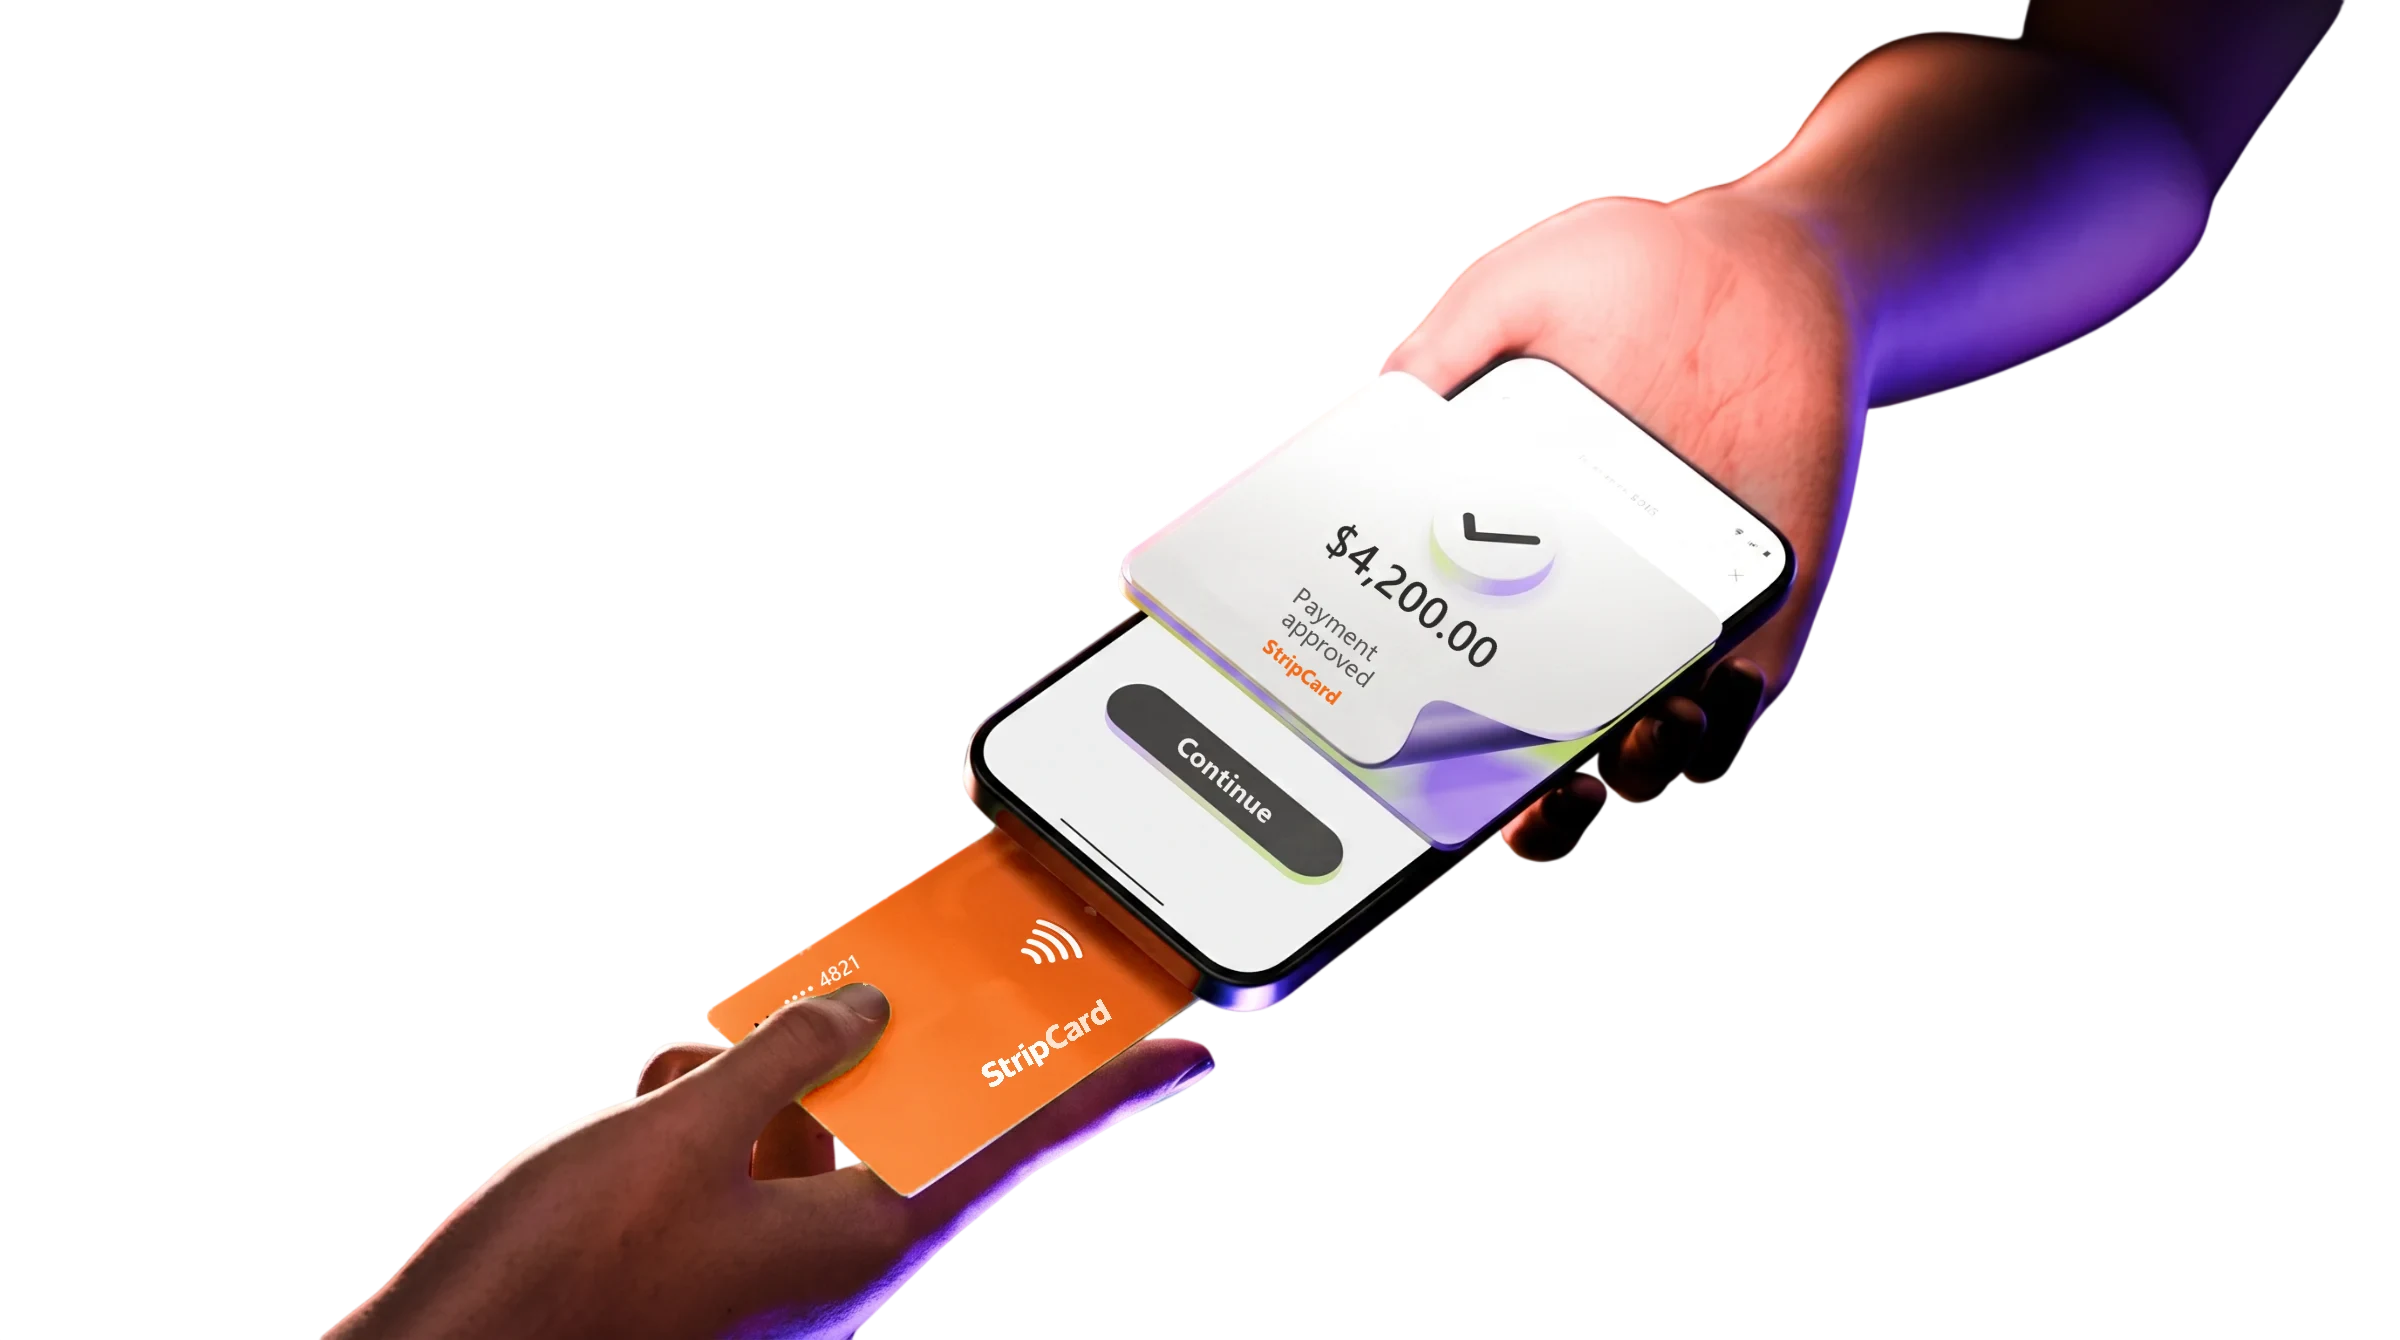
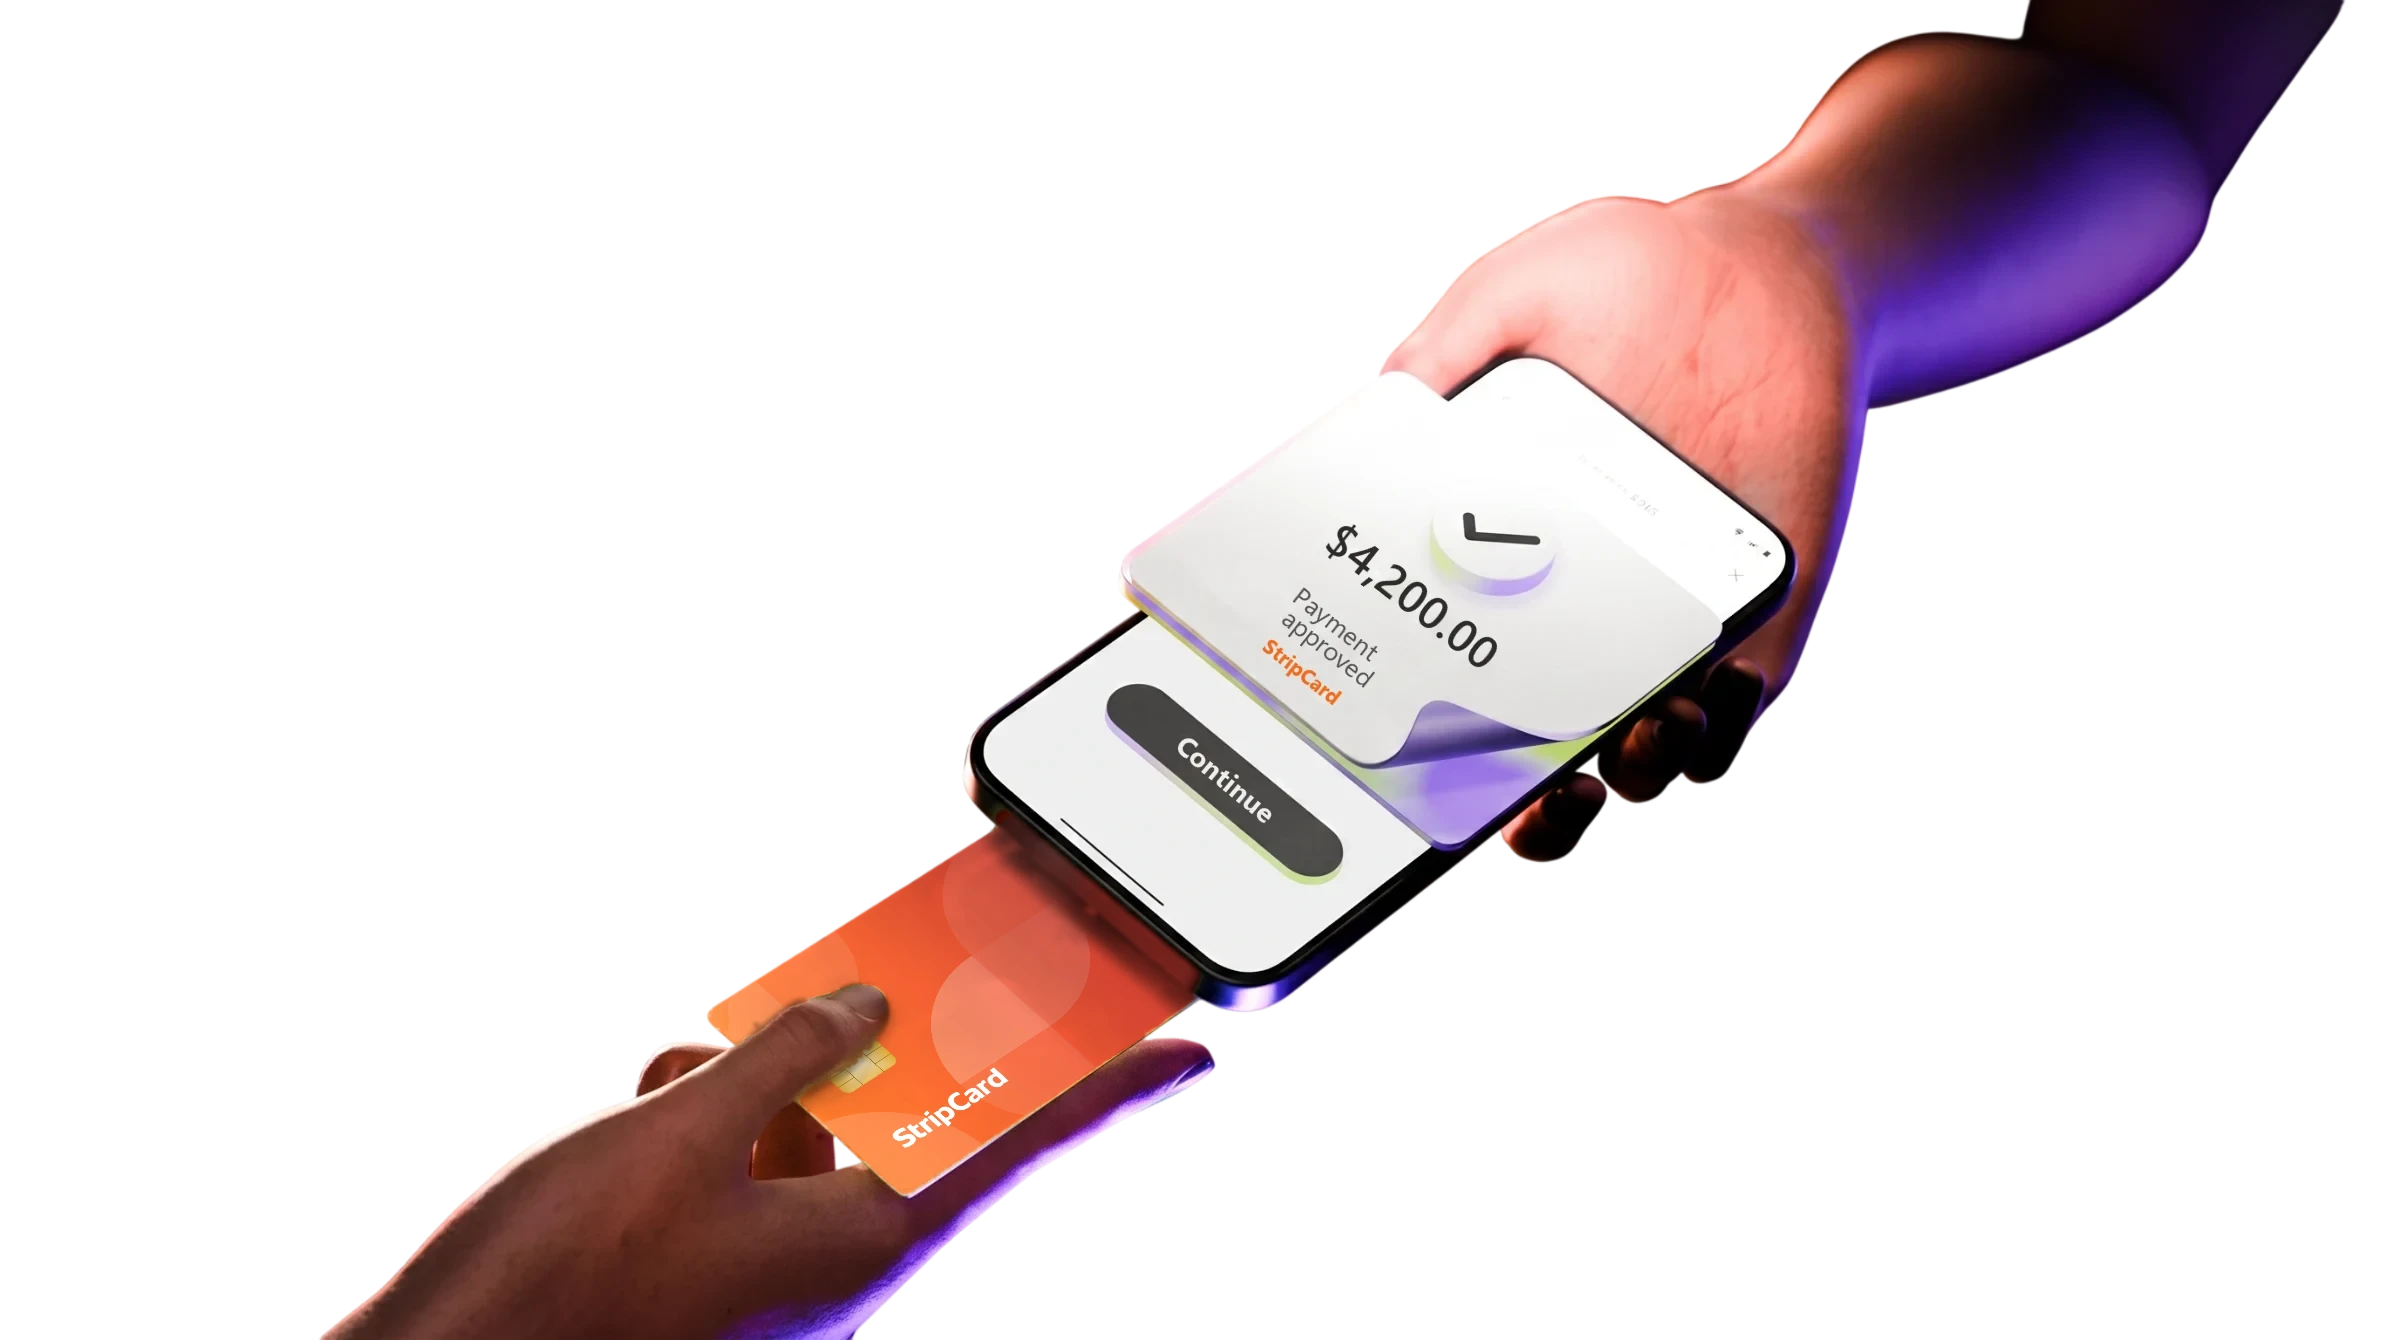
Update hero section and testimonial

Changed region(s): [[0.3438, 0.6119, 0.5, 0.8567], [0.2812, 0.7343, 0.3438, 0.7649]]

diff --git a/src/components/home/Banner.jsx b/src/components/home/Banner.jsx
@@ -1,9 +1,82 @@
 import Image from "next/image";
-import { Button } from "@/components/ui/Button";
+import { siApplepay, siGooglepay, siPaypal, siStripe, siVisa } from "simple-icons";
 import { TrustBadge } from "@/components/shared/TrustBadge";
 import { Container } from "@/components/ui/Container";
 import { Eyebrow } from "@/components/ui/Eyebrow";
 import { banner } from "@/data/banner";
+
+/**
+ * A wedge of a circle, as polygon points: from `from` to `to` degrees (SVG
+ * angles, clockwise from three o'clock), out to radius `r` around `cx, cy`.
+ */
+function wedge(cx, cy, r, from, to) {
+  const at = (deg) => {
+    const a = (deg * Math.PI) / 180;
+    return `${(cx + r * Math.cos(a)).toFixed(2)},${(cy + r * Math.sin(a)).toFixed(2)}`;
+  };
+  return `${cx},${cy} ${at(from)} ${at((from + to) / 2)} ${at(to)}`;
+}
+
+/**
+ * Google Pay's "G" in its four colours. simple-icons draws "G Pay" as one
+ * shape, the G a ring of radius 3.963 round (3.963, 11.198) with the word to
+ * its right; the coloured wedges are clipped to that shape and kept left of
+ * the "P", so only the G takes them.
+ */
+const G = { cx: 3.963, cy: 11.198, r: 9 };
+const G_COLOURS = [
+  ["#ea4335", 190, 320],
+  ["#fbbc04", 140, 190],
+  ["#34a853", 35, 140],
+  ["#4285f4", -40, 35],
+];
+
+/**
+ * The partner logos in their own colours, by the name the data uses: each
+ * simple-icons path with a viewBox cropped to its own outline (the icons sit
+ * in a 24-unit square, which would leave a wordmark tiny and a square mark
+ * huge). Mastercard is drawn as its circles, red and yellow overlapping in
+ * orange, and Google Pay's G in its four colours.
+ */
+const PARTNER_ICONS = {
+  siStripe: { box: "3.43 0 17.13 24", art: <path d={siStripe.path} fill="#635bff" /> },
+  siVisa: { box: "0 8.12 24 7.75", art: <path d={siVisa.path} fill="#1a1f71" /> },
+  siMastercard: {
+    box: "0 0 38 24",
+    art: (
+      <>
+        <circle cx="12" cy="12" r="12" fill="#eb001b" />
+        <circle cx="26" cy="12" r="12" fill="#f79e1b" />
+        <path d="M19 2.253A12 12 0 0 1 19 21.747A12 12 0 0 1 19 2.253Z" fill="#ff5f00" />
+      </>
+    ),
+  },
+  siApplepay: { box: "0 4.32 24 15.37", art: <path d={siApplepay.path} fill="#000" /> },
+  siGooglepay: {
+    box: "0 7.23 24 9.53",
+    art: (
+      <>
+        <defs>
+          <clipPath id="partner-gpay-shape">
+            <path d={siGooglepay.path} />
+          </clipPath>
+          <clipPath id="partner-gpay-g">
+            <rect x="0" y="0" width="8.3" height="24" />
+          </clipPath>
+        </defs>
+        <path d={siGooglepay.path} fill="#5f6368" />
+        <g clipPath="url(#partner-gpay-shape)">
+          <g clipPath="url(#partner-gpay-g)">
+            {G_COLOURS.map(([fill, from, to]) => (
+              <polygon key={fill} points={wedge(G.cx, G.cy, G.r, from, to)} fill={fill} />
+            ))}
+          </g>
+        </g>
+      </>
+    ),
+  },
+  siPaypal: { box: "1.82 0 20.36 24", art: <path d={siPaypal.path} fill="#003087" /> },
+};
 
 /**
  * Homepage banner.
@@ -18,7 +91,7 @@ import { banner } from "@/data/banner";
  * card, so the content pads itself clear of `--header-h` from the inside.
  */
 export function Banner() {
-  const { eyebrow, headline, description, cta, image, trust } = banner;
+  const { eyebrow, headline, description, partners, image, trust } = banner;
 
   return (
     <section className="bg-brand-50 p-2 sm:p-3 lg:p-4 dark:bg-page">
@@ -73,14 +146,27 @@ export function Banner() {
               {description}
             </p>
 
-            <Button
-              href={cta.href}
-              variant="outline"
-              arrow={false}
-              className="mt-6 [--btn-h:2.875rem] [--btn-pad:1.375rem] lg:mt-7"
-            >
-              {cta.label}
-            </Button>
+            {/* The payment partners, each logo in its own colours on a small
+                white badge, so even the dark ones (Visa, Apple Pay) read on
+                the banner's dark ground. */}
+            <div className="mt-6 lg:mt-7">
+              <p className="text-xs font-medium tracking-[0.02em] text-white/60">{partners.label}</p>
+              <ul className="mt-3.5 flex flex-wrap items-center gap-1.5 sm:gap-2">
+                {partners.items.map((partner) => {
+                  const icon = PARTNER_ICONS[partner.icon];
+                  return (
+                    <li
+                      key={partner.name}
+                      className="grid h-8 place-items-center rounded-lg bg-white px-2 shadow-[0_6px_16px_-8px_rgb(0_0_0/0.5)] ring-1 ring-black/5 transition-transform duration-300 hover:-translate-y-0.5 sm:h-9 sm:px-3"
+                    >
+                      <svg role="img" aria-label={partner.name} viewBox={icon.box} className="h-(--h) w-auto max-sm:h-[calc(var(--h)*0.85)]" style={{ "--h": `${partner.h}px` }}>
+                        {icon.art}
+                      </svg>
+                    </li>
+                  );
+                })}
+              </ul>
+            </div>
           </div>
         </Container>
       </div>

diff --git a/src/data/banner.js b/src/data/banner.js
@@ -12,12 +12,30 @@ export const banner = {
   description:
     "With StripCard, create virtual credit cards in seconds. Set spending limits, track every payment in real time, and pay securely online, anywhere in the world.",
 
-  cta: { label: "Explore Products", href: "/products" },
+  /**
+   * The payment partners, as a row of logo badges under the pitch. `icon` names a
+   * simple-icons export (see Banner); `h` is the logo's height in pixels,
+   * set per logo so square marks and long wordmarks carry the same weight.
+   */
+  partners: {
+    label: "Works with the payment partners you trust",
+    items: [
+      { name: "Stripe", icon: "siStripe", h: 18 },
+      { name: "Visa", icon: "siVisa", h: 12 },
+      { name: "Mastercard", icon: "siMastercard", h: 18 },
+      { name: "Apple Pay", icon: "siApplepay", h: 21 },
+      { name: "Google Pay", icon: "siGooglepay", h: 14 },
+      { name: "PayPal", icon: "siPaypal", h: 18 },
+    ],
+  },
 
   /**
    * `hero_img1.webp`, rebranded: the receipt on the phone reads "$4,200.00,
-   * Payment approved, StripCard", the button "Continue", and the card is an
-   * orange StripCard with its own number. The original stays beside it.
+   * Payment approved, StripCard", the button "Continue", and the card is the
+   * orange StripCard with its name along the bottom
+   * (public/images/assets/cards/card-orange-naming-reverse.webp), set into
+   * the photo under the thumb so the name reads clear of it. The original
+   * stays beside it.
    */
   image: {
     src: "/images/assets/banner/hero-stripcard.webp",

diff --git a/src/data/testimonials.js b/src/data/testimonials.js
@@ -1,6 +1,9 @@
+import aishaAvatar from "../../public/images/testimonials/customer-aisha-avatar.webp";
 import aisha from "../../public/images/testimonials/customer-aisha.webp";
+import danielAvatar from "../../public/images/testimonials/customer-daniel-avatar.webp";
 import daniel from "../../public/images/testimonials/customer-daniel.webp";
 import marcus from "../../public/images/testimonials/customer-marcus.webp";
+import mayaAvatar from "../../public/images/testimonials/customer-maya-avatar.webp";
 import maya from "../../public/images/testimonials/customer-maya.webp";
 import sofia from "../../public/images/testimonials/customer-sofia.webp";
 
@@ -22,7 +25,8 @@ export const testimonialsHeading = {
 /**
  * The orange card pinned at the start of the rail. PLACEHOLDER figures:
  * replace `score` and `users` with real, current numbers (and say where the
- * rating comes from) before launch. `avatars` are a few of the faces below.
+ * rating comes from) before launch. `avatars` are a few of the faces below,
+ * as square headshots made from their photos.
  */
 export const testimonialsRating = {
   score: "4.9",
@@ -30,7 +34,7 @@ export const testimonialsRating = {
   note: "Average from customers paying with StripCard every day.",
   users: "15k+",
   usersLabel: "Trusted users",
-  avatars: [maya, daniel, aisha],
+  avatars: [mayaAvatar, danielAvatar, aishaAvatar],
 };
 
 /**

diff --git a/src/components/home/Faq.jsx b/src/components/home/Faq.jsx
@@ -23,14 +23,15 @@ const topics = faqCategories.map(({ id, label }) => ({
  * short line of description at its right. The questions follow as a centred
  * accordion column, each question and its answer centred too.
  *
- * One question is open at a time, the first by default. Picking a category
- * shows only its questions and opens the first. Each question is a real
+ * The list opens on the Cards topic, its first question open. One question
+ * is open at a time; picking a category shows only its questions and opens
+ * the first. Each question is a real
  * button with `aria-expanded`, tied to its answer region. The answers open
  * by animating the grid row from 0fr to 1fr, so no height is measured.
  */
 export function Faq() {
   const { eyebrow, title, description } = faqHeading;
-  const [category, setCategory] = useState("all");
+  const [category, setCategory] = useState("cards");
   const list = category === "all" ? faqs : faqs.filter((item) => item.category === category);
   const [open, setOpen] = useState(0);
   const id = useId();

diff --git a/src/data/dashboard.js b/src/data/dashboard.js
@@ -1,8 +1,10 @@
 import { siAirbnb, siApple, siNetflix, siSpotify, siStarbucks, siUber } from "simple-icons";
-import aisha from "../../public/images/testimonials/customer-aisha.webp";
-import daniel from "../../public/images/testimonials/customer-daniel.webp";
+// Maya, Daniel and Aisha have square headshots made for round avatars; the
+// others' photos are cropped to their faces where they are drawn.
+import aisha from "../../public/images/testimonials/customer-aisha-avatar.webp";
+import daniel from "../../public/images/testimonials/customer-daniel-avatar.webp";
 import marcus from "../../public/images/testimonials/customer-marcus.webp";
-import maya from "../../public/images/testimonials/customer-maya.webp";
+import maya from "../../public/images/testimonials/customer-maya-avatar.webp";
 import sofia from "../../public/images/testimonials/customer-sofia.webp";
 
 /** A brand's mark (from simple-icons), drawn in the text colour wherever it is used. */
